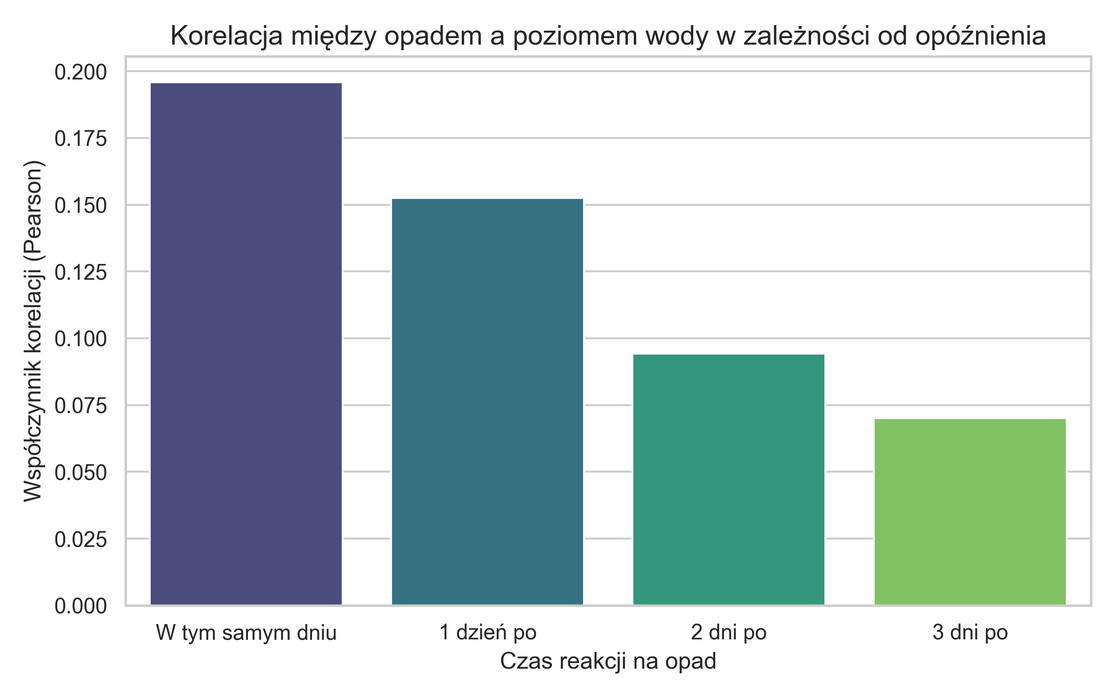
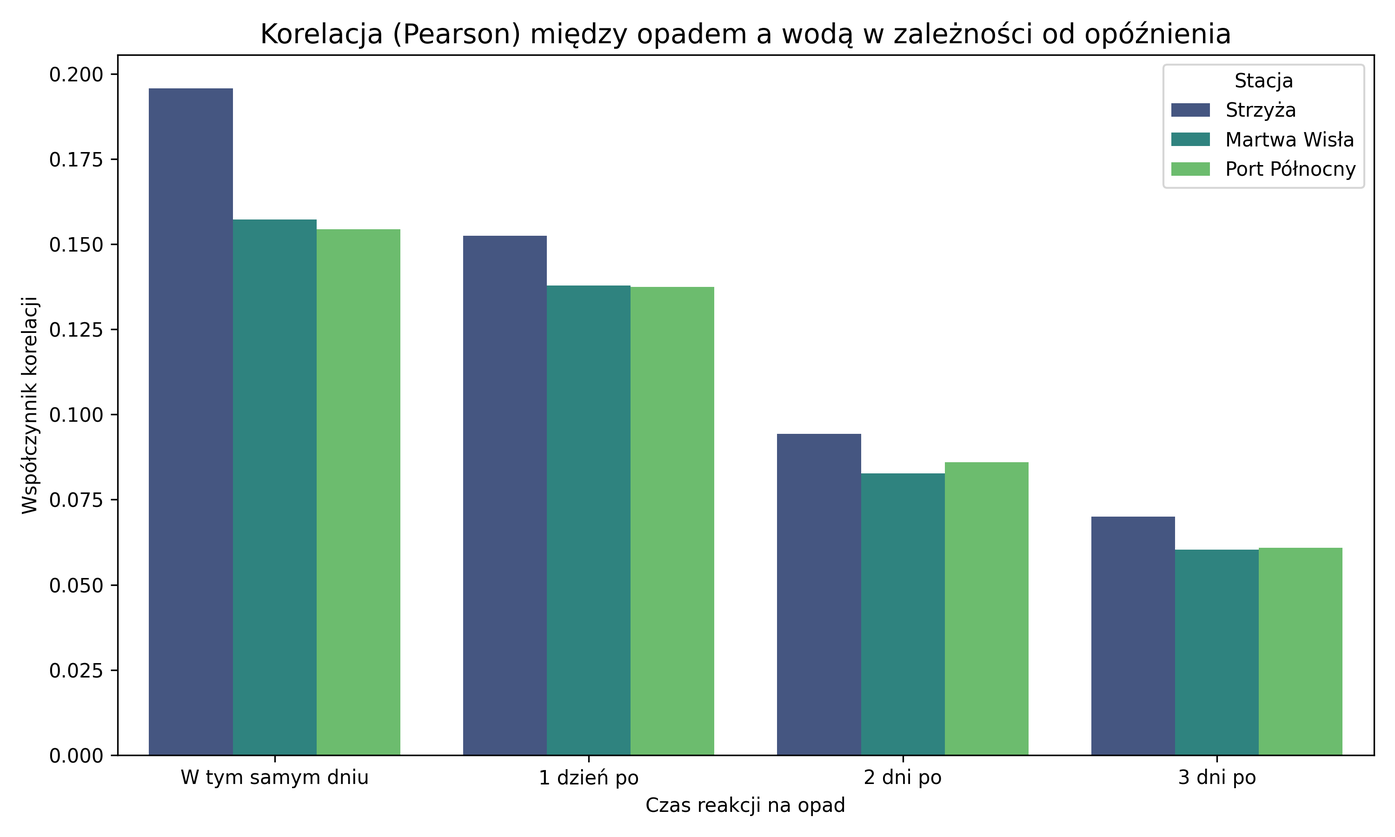
punkt 4 - zmiana analiza_ekspolaracyjnej na 3 stacje poziomu wody

diff --git a/brudnopis/analiza_ekspo.py b/brudnopis/analiza_ekspo.py
@@ -1,0 +1,236 @@
+import os
+import matplotlib.pyplot as plt
+import seaborn as sns
+import pandas as pd
+import numpy as np
+
+# Słowniki pomocnicze do mapowania stacji na ich kolumny w DataFrame
+STACJE_MAX = {
+    'Strzyża': 'Poziom_wody_max',
+    'Martwa Wisła': 'Martwa_Wisla_max',
+    'Port Północny': 'Port_Polnocny_max'
+}
+
+STACJE_SREDNIA = {
+    'Strzyża': 'Poziom_wody_średnia',
+    'Martwa Wisła': 'Martwa_Wisla_średnia',
+    'Port Północny': 'Port_Polnocny_średnia'
+}
+
+
+# ==========================================
+# 1. SEZONOWOŚĆ POZIOMU WODY
+# ==========================================
+
+def plot_przebieg_dobowy(df, base_dir='../reports/analiza_ekspolaracyjna/sezonowosc_poziomu_wody/plots'):
+    os.makedirs(base_dir, exist_ok=True)
+    fig, axes = plt.subplots(3, 1, figsize=(15, 12), sharex=True)
+
+    for ax, (nazwa, col_max) in zip(axes, STACJE_MAX.items()):
+        col_srednia = STACJE_SREDNIA[nazwa]
+        ax.plot(df.index, df[col_srednia], label='Średni dobowy', color='teal', alpha=0.7)
+        ax.plot(df.index, df[col_max], label='Maksymalny dobowy', color='red', alpha=0.5)
+        ax.set_title(f'Przebieg poziomu wody: {nazwa}', fontsize=12)
+        ax.set_ylabel('Poziom [m]')
+        ax.legend()
+
+    axes[-1].set_xlabel('Data')
+    plt.suptitle('Przebieg dobowy poziomu wody w latach 2021-2025', fontsize=16, y=1.02)
+    plt.tight_layout()
+    plt.savefig(os.path.join(base_dir, 'przebieg_poziomu_wody_dobowo.png'), dpi=300)
+    plt.close()
+
+
+def plot_sezonowosc_pory_roku(df, base_dir='../reports/analiza_ekspolaracyjna/sezonowosc_poziomu_wody/plots'):
+    os.makedirs(base_dir, exist_ok=True)
+    fig, axes = plt.subplots(1, 3, figsize=(18, 5))
+
+    for ax, (nazwa, col_srednia) in zip(axes, STACJE_SREDNIA.items()):
+        # Zmieniono 'Pora_roku' na 'sezon' aby pasowało do pliku CSV
+        sns.boxplot(ax=ax, data=df, x='sezon', y=col_srednia,
+                    hue='sezon', order=['wiosna', 'lato', 'jesien', 'zima'],
+                    palette='pastel', legend=False)
+        ax.set_title(f'{nazwa}', fontsize=12)
+        ax.set_ylabel('Średni poziom [m]')
+        ax.set_xlabel('Pora roku')
+
+    plt.suptitle('Rozkład średniego dobowego poziomu wody wg pór roku', fontsize=16, y=1.05)
+    plt.tight_layout()
+    plt.savefig(os.path.join(base_dir, 'sezonowosc_wg_por_roku.png'), dpi=300)
+    plt.close()
+
+
+def plot_sezonowosc_miesiace(df, base_dir='../reports/analiza_ekspolaracyjna/sezonowosc_poziomu_wody/plots'):
+    os.makedirs(base_dir, exist_ok=True)
+    fig, axes = plt.subplots(3, 1, figsize=(14, 15), sharex=True)
+
+    for ax, (nazwa, col_srednia) in zip(axes, STACJE_SREDNIA.items()):
+        # Zmieniono 'Miesiąc' na 'month' aby pasowało do pliku CSV
+        sns.boxplot(ax=ax, data=df, x='month', y=col_srednia,
+                    hue='month', palette='Set3', legend=False)
+        ax.set_title(f'{nazwa}', fontsize=12)
+        ax.set_ylabel('Średni poziom [m]')
+
+    axes[-1].set_xlabel('Miesiąc (1=Styczeń, 12=Grudzień)')
+    plt.suptitle('Rozkład średniego dobowego poziomu wody w poszczególnych miesiącach', fontsize=16, y=1.02)
+    plt.tight_layout()
+    plt.savefig(os.path.join(base_dir, 'sezonowosc_wg_miesiecy.png'), dpi=300)
+    plt.close()
+
+
+# ==========================================
+# 2. ZALEŻNOŚCI METEO
+# ==========================================
+
+def plot_zaleznosc_opad_woda(df, base_dir='../reports/analiza_ekspolaracyjna/zaleznosci_poziomu_wody/plots'):
+    os.makedirs(base_dir, exist_ok=True)
+    fig, axes = plt.subplots(1, 3, figsize=(18, 5))
+
+    for ax, (nazwa, col_max) in zip(axes, STACJE_MAX.items()):
+        sns.scatterplot(ax=ax, data=df, x='Opad_72h', y=col_max, alpha=0.5, color='royalblue')
+        ax.set_title(f'{nazwa}', fontsize=12)
+        ax.set_xlabel('Opad z 3 dni [mm]')
+        ax.set_ylabel('Max poziom wody [m]')
+
+    plt.suptitle('Zależność ogólna: Opad skumulowany (72h) a max poziom wody', fontsize=16, y=1.05)
+    plt.tight_layout()
+    plt.savefig(os.path.join(base_dir, 'zaleznosc_opad_woda_ogolnie.png'), dpi=300)
+    plt.close()
+
+
+def plot_zaleznosc_opad_woda_sezony(df, base_dir='../reports/analiza_ekspolaracyjna/zaleznosci_poziomu_wody/plots'):
+    os.makedirs(base_dir, exist_ok=True)
+    fig, axes = plt.subplots(1, 3, figsize=(18, 5))
+
+    for ax, (nazwa, col_max) in zip(axes, STACJE_MAX.items()):
+        sns.scatterplot(ax=ax, data=df, x='Opad_72h', y=col_max, hue='sezon',
+                        palette='bright', alpha=0.7, s=40)
+        ax.set_title(f'{nazwa}', fontsize=12)
+        ax.set_xlabel('Opad z 3 dni [mm]')
+        ax.set_ylabel('Max poziom wody [m]')
+        ax.legend()
+
+    plt.suptitle('Opad skumulowany a poziom wody w różnych porach roku', fontsize=16, y=1.05)
+    plt.tight_layout()
+    plt.savefig(os.path.join(base_dir, 'zaleznosc_opad_woda_sezony.png'), dpi=300)
+    plt.close()
+
+
+def plot_zaleznosc_cisnienie_woda(df, base_dir='../reports/analiza_ekspolaracyjna/zaleznosci_poziomu_wody/plots'):
+    os.makedirs(base_dir, exist_ok=True)
+    fig, axes = plt.subplots(1, 3, figsize=(18, 5))
+
+    for ax, (nazwa, col_max) in zip(axes, STACJE_MAX.items()):
+        sns.scatterplot(ax=ax, data=df, x='Ciśnienie_delta_1d', y=col_max, hue='sezon',
+                        palette='bright', alpha=0.7, s=40)
+        ax.axvline(0, color='grey', linestyle='--')
+        ax.set_title(f'{nazwa}', fontsize=12)
+        ax.set_xlabel('Zmiana ciśnienia (1d) [hPa]')
+        ax.set_ylabel('Max poziom wody [m]')
+        ax.legend()
+
+    plt.suptitle('Wpływ zmiany ciśnienia (proxy wiatru/sztormu) na max poziom wody', fontsize=16, y=1.05)
+    plt.tight_layout()
+    plt.savefig(os.path.join(base_dir, 'zaleznosc_cisnienie_woda_sezony.png'), dpi=300)
+    plt.close()
+
+
+# ==========================================
+# 3. ANALIZA OPÓŹNIEŃ (LAGS)
+# ==========================================
+
+def plot_korelacja_opoznien(df, base_dir='../reports/analiza_ekspolaracyjna/analiza_opoznien/plots'):
+    os.makedirs(base_dir, exist_ok=True)
+    lagi_opadu = ['Opad_suma', 'Opad_lag_1d', 'Opad_lag_2d', 'Opad_lag_3d']
+    nazwy_lagow = ['W tym samym dniu', '1 dzień po', '2 dni po', '3 dni po']
+
+    dane_plot = []
+    for lag_col, lag_nazwa in zip(lagi_opadu, nazwy_lagow):
+        for stacja_nazwa, stacja_col in STACJE_MAX.items():
+            korelacja = df[lag_col].corr(df[stacja_col])
+            dane_plot.append({'Lag': lag_nazwa, 'Stacja': stacja_nazwa, 'Korelacja': korelacja})
+
+    df_corr = pd.DataFrame(dane_plot)
+
+    plt.figure(figsize=(10, 6))
+    sns.barplot(data=df_corr, x='Lag', y='Korelacja', hue='Stacja', palette='viridis')
+    plt.title('Korelacja (Pearson) między opadem a wodą w zależności od opóźnienia', fontsize=14)
+    plt.ylabel('Współczynnik korelacji')
+    plt.xlabel('Czas reakcji na opad')
+    plt.tight_layout()
+    plt.savefig(os.path.join(base_dir, 'korelacja_opoznien_slupki.png'), dpi=300)
+    plt.close()
+
+
+def plot_scatter_opoznienia(df, base_dir='../reports/analiza_ekspolaracyjna/analiza_opoznien/plots'):
+    os.makedirs(base_dir, exist_ok=True)
+    fig, axes = plt.subplots(3, 3, figsize=(16, 12), sharex=True, sharey='row')
+
+    lagi = [
+        ('Opad_suma', 'W tym samym dniu', 'blue'),
+        ('Opad_lag_1d', '1 dzień po opadzie', 'orange'),
+        ('Opad_lag_2d', '2 dni po opadzie', 'green')
+    ]
+
+    for wiersz, (nazwa_stacji, col_max) in enumerate(STACJE_MAX.items()):
+        for kolumna, (kolumna_lag, tytul_lag, kolor) in enumerate(lagi):
+            ax = axes[wiersz, kolumna]
+            sns.scatterplot(ax=ax, data=df, x=kolumna_lag, y=col_max, alpha=0.5, color=kolor)
+
+            if wiersz == 0:
+                ax.set_title(tytul_lag)
+
+            if kolumna == 0:
+                ax.set_ylabel(f'{nazwa_stacji}\nMax poziom [m]')
+            else:
+                ax.set_ylabel('')
+
+            if wiersz == 2:
+                ax.set_xlabel('Suma opadu [mm]')
+            else:
+                ax.set_xlabel('')
+
+    plt.suptitle('Reakcja 3 punktów pomiarowych na opad z opóźnieniem', fontsize=16, y=1.02)
+    plt.tight_layout()
+    plt.savefig(os.path.join(base_dir, 'scatter_opoznienia_panel.png'), dpi=300)
+    plt.close()
+
+
+# ==========================================
+# WYWOŁANIE FUNKCJI
+# ==========================================
+if __name__ == "__main__":
+    sciezka_do_pliku = '../data/processed/final.csv'
+
+    if os.path.exists(sciezka_do_pliku):
+        print("Wczytywanie danych...")
+        final = pd.read_csv(
+            sciezka_do_pliku,
+            parse_dates=['Data'],
+            index_col='Data'
+        )
+
+        # USUWANIE ANOMALII Z PORTU PÓŁNOCNEGO
+        print("Filtrowanie błędów aparatury...")
+        final.loc[final['Port_Polnocny_max'] < 4.0, 'Port_Polnocny_max'] = np.nan
+        final.loc[final['Port_Polnocny_średnia'] < 4.0, 'Port_Polnocny_średnia'] = np.nan
+
+        print("Generowanie i zapisywanie plików do folderów...")
+
+        # 1. Sezonowość
+        plot_przebieg_dobowy(final)
+        plot_sezonowosc_pory_roku(final)
+        plot_sezonowosc_miesiace(final)
+
+        # 2. Zależności meteo
+        plot_zaleznosc_opad_woda(final)
+        plot_zaleznosc_opad_woda_sezony(final)
+        plot_zaleznosc_cisnienie_woda(final)
+
+        # 3. Analiza opóźnień
+        plot_korelacja_opoznien(final)
+        plot_scatter_opoznienia(final)
+
+        print("Gotowe! Wszystkie wykresy zapisane w folderze ../reports/analiza_ekspolaracyjna/")
+    else:
+        print(f"Błąd: Nie znaleziono pliku {sciezka_do_pliku}.")

diff --git a/src/data/preprocessing.py b/src/data/preprocessing.py
@@ -196,7 +196,7 @@ def clean_port_polnocny_and_day_step(df):
     df['Poziom wody [m]'] = df['Poziom wody [m]'].astype(str).str.replace(',', '.')
     df['Poziom wody [m]'] = pd.to_numeric(df['Poziom wody [m]'], errors='coerce')
 
-    df.loc[(df['Poziom wody [m]'] < 0) | (df['Poziom wody [m]'] > 10), 'Poziom wody [m]'] = np.nan
+    df.loc[(df['Poziom wody [m]'] < 4.5) | (df['Poziom wody [m]'] > 7), 'Poziom wody [m]'] = np.nan
 
     df = df.dropna(subset=['Poziom wody [m]'])
 

diff --git a/reports/analiza_ekspolaracyjna/analiza_ekspolaracyjna.md b/reports/analiza_ekspolaracyjna/analiza_ekspolaracyjna.md
@@ -1,0 +1,71 @@
+## Rozdział: Wyniki analizy eksploracyjnej
+
+### 4.1. Sezonowość poziomu wody w układzie Zatoka-Rzeka (2021-2025)
+
+**Przebieg długoterminowy i synchronizacja zjawisk**
+
+Analiza szeregów czasowych z lat 2021–2025 dla trzech punktów pomiarowych (Strzyża, Martwa Wisła, Port Północny) ujawnia niemal perfekcyjną synchronizację wahań poziomu wody. Wykresy przebiegu dobowego pokazują, że najwyższe piki wezbraniowe (np. początek 2022 i koniec 2025 roku) oraz najgłębsze spadki występują na wszystkich trzech stacjach dokładnie w tym samym czasie. 
+
+![Przebieg dobowy poziomu wody](sezonowosc_poziomu_wody/plots/przebieg_poziomu_wody_dobowo.png)
+
+Taka charakterystyka dowodzi, że cały badany węzeł wodny funkcjonuje jak system naczyń połączonych, w którym głównym dyktatorem warunków hydrologicznych jest Zatoka Gdańska (reprezentowana przez Port Północny), a wpływ lokalnych zjawisk wewnątrz zlewni (własny nurt Strzyży) schodzi na dalszy plan w obliczu dominujących wezbrań morskich.
+
+**Zmienność miesięczna i sezonowa**
+
+Analiza rozkładów wartości (wykresy pudełkowe) wskazuje na spójną sezonowość dla całego układu, niezależnie od odległości od otwartego morza:
+
+* **Miesiące niżówkowe (Wiosna):** Zdecydowanie najniższe stany wód notowane są w sezonie wiosennym, z wyraźnym minimum przypadającym na **maj**. Mediany dla tego miesiąca są najniższe na wszystkich trzech stacjach. Wynika to z uspokojenia cyrkulacji atmosferycznej nad Bałtykiem po okresie zimowym oraz braku głębokich niżów pompujących wodę do zatoki.
+* **Miesiące o najwyższym stanie i największej dynamice (Zima):** Najwyższe średnie poziomy wody charakteryzują porę zimową (**styczeń i luty**). Zima jest również okresem o największej wariancji (najdłuższe wąsy na wykresach pudełkowych) oraz największej liczbie wartości odstających "w górę" na każdej ze stacji. Potwierdza to ścisły związek ekstremalnych wezbrań z zimowym sezonem sztormowym na Bałtyku i zjawiskiem cofki wiatrowej.
+* **Letnie i jesienne odpływy wiatrowe:** Bardzo ciekawym zjawiskiem, widocznym szczególnie wyraźnie na stacji Port Północny w lipcu, jest obecność skrajnych wartości odstających "w dół" (spadki poziomu wody poniżej 4,7 m). Są to klasyczne zjawiska odpływów wiatrowych, występujące, gdy silne i długotrwałe wiatry z południa i wschodu odpychają masy wody z Zatoki Gdańskiej na otwarte morze, co błyskawicznie "odsysa" wodę również z Martwej Wisły i koryta Strzyży.
+
+![Sezonowość według miesięcy](sezonowosc_poziomu_wody/plots/sezonowosc_wg_miesiecy.png)
+
+![Sezonowość według pór roku](sezonowosc_poziomu_wody/plots/sezonowosc_wg_por_roku.png)
+
+---
+
+### 4.2. Zależności poziom wody – warunki meteorologiczne
+
+**Wpływ opadów skumulowanych (72h)**
+
+Analiza wykresów rozrzutu (zależność maksymalnego poziomu wody od sumy opadów z 3 poprzedzających dni) dla wszystkich trzech stacji pomiarowych dostarcza jednoznacznych wniosków na temat roli opadów w badanym węźle wodnym:
+
+* **Brak korelacji dla ekstremów:** We wszystkich trzech punktach układu (Strzyża, Martwa Wisła, Port Północny) absolutnie najwyższe stany wód występują niemal wyłącznie w dniach o znikomym lub zerowym opadzie skumulowanym (głównie w porze zimowej – punkty niebieskie). Oznacza to, że opad atmosferyczny nie jest bezpośrednim czynnikiem wyzwalającym stany alarmowe w tym regionie.
+* **Marginalny wpływ letnich ulew:** Bardzo wysokie sumy opadów (przekraczające 60–80 mm w ciągu 72 godzin) notowane są wyłącznie latem (zielone punkty). Choć wywołują one zauważalne, krótkotrwałe wezbrania na rzece Strzyża, ich wpływ na Martwą Wisłę i Port Północny jest praktycznie niezauważalny. Zdolność retencyjna i objętość akwenów morskich całkowicie buforują te opady, co potwierdza, że zagrożenie powodziowe latem ma tu charakter wyłącznie lokalny (tzw. powodzie błyskawiczne w uszczelnionej zlewni Strzyży), a nie systemowy.
+
+![Zależność opad a woda ogólnie](zaleznosci_poziomu_wody/plots/zaleznosc_opad_woda_ogolnie.png)
+
+![Zależność opad a woda z podziałem na sezony](zaleznosci_poziomu_wody/plots/zaleznosc_opad_woda_sezony.png)
+
+**Wpływ dynamiki ciśnienia atmosferycznego (proxy wiatru i sztormów)**
+
+Wykresy zależności poziomu wody od dobowej zmiany ciśnienia atmosferycznego (wskaźnik `Ciśnienie_delta_1d` użyty jako proxy dla przechodzących frontów i siły wiatru) bezsprzecznie tłumaczą genezę ekstremów hydrologicznych w całym systemie:
+
+* **"Lejek" zmienności układu:** Wszystkie trzy stacje wykazują identyczny, charakterystyczny kształt lejka. W dniach o stabilnej sytuacji barycznej (zmiana ciśnienia bliska 0 hPa) poziom wody jest przewidywalny i skupiony w wąskim przedziale bliskim średniej. Jednak wraz ze wzrostem dynamiki ciśnienia – co oznacza nadciągające głębokie niże lub silne wyże – rozrzut i wariancja poziomu wody drastycznie rosną na każdej ze stacji.
+* **Dominacja zjawisk morskich (cofki i odpływy):** Historyczne maksima (sztormowe wezbrania zimowe) oraz skrajne minima (odpływy wiatrowe) występują przy wahaniach ciśnienia przekraczających 10–20 hPa/dobę. Fakt, że zależność ta jest tak samo silna dla otwartego Portu Północnego, jak i ujściowego odcinka rzeki Strzyży, stanowi twardy dowód na to, że ekstremalne zjawiska hydrologiczne w Gdańsku są napędzane mechanicznie od strony morza. To silne wiatry i zmiana ciśnienia na Bałtyku "wtłaczają" lub "wypychają" wodę z systemu, czyniąc parametry cyrkulacyjne kluczowymi predyktorami dla przyszłych modeli predykcyjnych.
+
+![Zależność ciśnienia i poziomu wody](zaleznosci_poziomu_wody/plots/zaleznosc_cisnienie_woda_sezony.png)
+
+---
+
+### 4.3. Analiza czasowa reakcji na opad (opóźnienia / lags)
+
+**Dynamika spływu i czas reakcji w układzie rzeka-morze**
+
+Analiza współczynników korelacji Pearsona pomiędzy sumą opadów a maksymalnym dobowym poziomem wody dla różnych opóźnień czasowych ujawnia spójną dynamikę dla całego badanego układu hydrologicznego:
+
+* **Natychmiastowa reakcja systemu:** Dla wszystkich trzech stacji pomiarowych najwyższą wartość korelacji zaobserwowano dla opadu występującego **w tym samym dniu** (brak opóźnienia). Z każdym kolejnym dniem siła związku maleje. Dowodzi to bardzo krótkiego czasu koncentracji odpływu. W przypadku Strzyży wynika to z silnego zurbanizowania i uszczelnienia zlewni (woda z ulic błyskawicznie trafia do koryta). Z kolei jednodniowa reakcja w Porcie Północnym i na Martwej Wiśle sugeruje, że opad jest tam jedynie zjawiskiem współwystępującym z przechodzącymi, szybkimi frontami atmosferycznymi.
+* **Gradient wpływu opadów:** Wykres słupkowy wyraźnie uwidacznia przestrzenny spadek znaczenia opadów. Najwyższą korelację z deszczem wykazuje rzeka Strzyża (ok. 0.19), nieco niższą Martwa Wisła (ok. 0.16), a najniższą Port Północny (ok. 0.15). Jest to logiczne z punktu widzenia fizjografii terenu – im bliżej otwartego morza, tym wpływ lokalnych ulew na poziom lustra wody jest mocniej "rozmywany" przez ogromną objętość akwenu.
+
+![Korelacja opóźnień (słupki)](analiza_opoznien/plots/korelacja_opoznien_slupki.png)
+
+**Ostateczna weryfikacja dominującego czynnika wezbrań**
+
+Panel wykresów punktowych (scatter plots) zestawiający sumę opadów z poziomem wody w poszczególnych dniach opóźnienia stanowi ostateczne potwierdzenie unikalnego charakteru gdańskiego węzła wodnego:
+
+* Niezależnie od analizowanej stacji (Strzyża, Martwa Wisła, Port Północny) oraz badanego opóźnienia, absolutnie najwyższe stany wód (górne partie osi Y) konsekwentnie grupują się po lewej stronie wykresów – przy wartościach opadu bliskich zera (0-10 mm).
+* Duże sumy opadów (powyżej 30-40 mm) generują jedynie umiarkowane wzrosty poziomu wody, bezpiecznie mieszczące się w korytach i basenach portowych.
+
+![Analiza opóźnień (scatter panel)](analiza_opoznien/plots/scatter_opoznienia_panel.png)
+
+Powyższe obserwacje bezsprzecznie dowodzą, że opady atmosferyczne nie stanowią w tym rejonie głównego zagrożenia powodziowego. Cały badany system – od otwartego Portu Północnego, przez Martwą Wisłę, aż po ujściowy odcinek Strzyży – jest w pełni zdominowany przez reżim morski. Ekstremalne wezbrania są tu wywoływane mechanicznie przez zjawisko tzw. "cofki" wiatrowej z Zatoki Gdańskiej, co czyni czynniki cyrkulacyjne (wiatr, ciśnienie) najważniejszymi predyktorami w docelowym modelu uczenia maszynowego.

diff --git a/reports/analiza_ekspolaracyjna/sezonowosc_poziomu_wody/raport_sezonowosc.md b/reports/analiza_ekspolaracyjna/sezonowosc_poziomu_wody/raport_sezonowosc.md
@@ -1,15 +1,16 @@
 ## Rozdział: Wyniki analizy eksploracyjnej
 
-### 4.1. Sezonowość poziomu wody (Rzeka Strzyża, 2021-2025)
+### 4.1. Sezonowość poziomu wody w układzie Zatoka-Rzeka (2021-2025)
 
-**Przebieg długoterminowy i ekstrema**
+**Przebieg długoterminowy i synchronizacja zjawisk**
 
-Analiza szeregu czasowego z lat 2021–2025 wskazuje, że średni dobowy poziom wody na rzece Strzyża wykazuje zauważalne wahania sezonowe, przerywane krótkotrwałymi wezbraniami. Po odfiltrowaniu błędów aparatury pomiarowej, wykres przebiegu dobowego uwidacznia, że najwyższe udokumentowane szczyty maksymalnego poziomu wody sięgają pułapu około 1,3 metra (wystąpiły m.in. na początku 2022 roku oraz pod koniec roku 2025). Najbardziej znaczące piki koncentrują się w chłodniejszej połowie roku.
+Analiza szeregów czasowych z lat 2021–2025 dla trzech punktów pomiarowych (Strzyża, Martwa Wisła, Port Północny) ujawnia niemal perfekcyjną synchronizację wahań poziomu wody. Wykresy przebiegu dobowego pokazują, że najwyższe piki wezbraniowe (np. początek 2022 i koniec 2025 roku) oraz najgłębsze spadki występują na wszystkich trzech stacjach dokładnie w tym samym czasie. 
+Taka charakterystyka dowodzi, że cały badany węzeł wodny funkcjonuje jak system naczyń połączonych, w którym głównym dyktatorem warunków hydrologicznych jest Zatoka Gdańska (reprezentowana przez Port Północny), a wpływ lokalnych zjawisk wewnątrz zlewni (własny nurt Strzyży) schodzi na dalszy plan w obliczu dominujących wezbrań morskich.
 
-**Zmienność miesięczna i pory roku**
+**Zmienność miesięczna i sezonowa**
 
-Na podstawie analizy rozkładów wartości (wykresy pudełkowe) zaobserwowano wyraźną sezonowość w zachowaniu rzeki:
+Analiza rozkładów wartości (wykresy pudełkowe) wskazuje na spójną sezonowość dla całego układu, niezależnie od odległości od otwartego morza:
 
-* **Miesiące o najwyższym stanie wód:** Najwyższe mediany poziomu wody notowane są w sezonie **zimowym**, ze szczególnym uwzględnieniem **stycznia i lutego**. W warunkach gdańskich (ujście rzeki) może to być bezpośrednio związane z zimowymi układami niżowymi, sztormami i zjawiskiem tzw. "cofki" wiatrowej od strony morza, a także z opadami i ewentualnymi roztopami.
-* **Miesiące niżówkowe:** Wbrew intuicji, najniższe stany wód (zarówno pod kątem średnich, jak i wartości minimalnych) charakteryzują na tej rzece **wiosnę**, osiągając absolutne minimum w **maju** (miesiąc 5). Prawdopodobnie wynika to z mniejszej sumy opadów połączonej z intensywnym poborem wody przez budzącą się do życia roślinność w zlewni.
-* **Występowanie anomalii (ekstremów):** Analiza wartości odstających (punktów powyżej tzw. wąsów na wykresach pudełkowych) wskazuje, że najbardziej skrajne odchylenia od normy dla średniego poziomu dobowego występują w **styczniu** (wartości rzędu 0,8–0,9 m). Zima jest zatem okresem najbardziej dynamicznym hydrologicznie. Warto również zauważyć, że choć lato ma wyższą medianę niż wiosna czy jesień, to po usunięciu szumu pomiarowego nie wykazuje już tak drastycznych anomalii uśrednionego poziomu dobowego, co sugeruje, że letnie opady burzowe mają charakter bardzo krótkotrwały i nie podnoszą średniej dobowej tak mocno, jak długotrwałe niże zimowe.
+* **Miesiące niżówkowe (Wiosna):** Zdecydowanie najniższe stany wód notowane są w sezonie wiosennym, z wyraźnym minimum przypadającym na **maj**. Mediany dla tego miesiąca są najniższe na wszystkich trzech stacjach. Wynika to z uspokojenia cyrkulacji atmosferycznej nad Bałtykiem po okresie zimowym oraz braku głębokich niżów pompujących wodę do zatoki.
+* **Miesiące o najwyższym stanie i największej dynamice (Zima):** Najwyższe średnie poziomy wody charakteryzują porę zimową (**styczeń i luty**). Zima jest również okresem o największej wariancji (najdłuższe wąsy na wykresach pudełkowych) oraz największej liczbie wartości odstających "w górę" na każdej ze stacji. Potwierdza to ścisły związek ekstremalnych wezbrań z zimowym sezonem sztormowym na Bałtyku i zjawiskiem cofki wiatrowej.
+* **Letnie i jesienne odpływy wiatrowe:** Bardzo ciekawym zjawiskiem, widocznym szczególnie wyraźnie na stacji Port Północny w lipcu, jest obecność skrajnych wartości odstających "w dół" (spadki poziomu wody poniżej 4,7 m). Są to klasyczne zjawiska odpływów wiatrowych, występujące, gdy silne i długotrwałe wiatry z południa i wschodu odpychają masy wody z Zatoki Gdańskiej na otwarte morze, co błyskawicznie "odsysa" wodę również z Martwej Wisły i koryta Strzyży.

diff --git a/reports/analiza_ekspolaracyjna/analiza_opoznien/raport_analiza.md b/reports/analiza_ekspolaracyjna/analiza_opoznien/raport_analiza.md
@@ -1,13 +1,15 @@
 ### 4.3. Analiza czasowa reakcji na opad (opóźnienia / lags)
 
-**Dynamika spływu i czas reakcji zlewni**
+**Dynamika spływu i czas reakcji w układzie rzeka-morze**
 
-Analiza współczynników korelacji Pearsona pomiędzy sumą opadów a maksymalnym dobowym poziomem wody (dla różnych opóźnień czasowych) rzuca światło na dynamikę spływu w zlewni Strzyży:
-* **Błyskawiczna reakcja:** Najwyższą wartość korelacji zaobserwowano dla opadu występującego **w tym samym dniu** (brak opóźnienia). Z każdym kolejnym dniem ("1 dzień po", "2 dni po") siła związku wyraźnie i kaskadowo maleje. Oznacza to, że rzeka reaguje na deszcz w ciągu zaledwie kilku do kilkunastu godzin.
-* **Charakterystyka zurbanizowana:** Tak krótki czas koncentracji odpływu (rzeka wzbiera w dniu opadu i szybko opada) jest sztandarową cechą zlewni silnie zurbanizowanych. Ze względu na duży stopień uszczelnienia terenu (asfalt, beton, dachy) w gdańskich dzielnicach oplatanych przez rzekę, woda deszczowa nie wsiąka w grunt, lecz siecią kanalizacji burzowej błyskawicznie trafia do koryta.
+Analiza współczynników korelacji Pearsona pomiędzy sumą opadów a maksymalnym dobowym poziomem wody dla różnych opóźnień czasowych ujawnia spójną dynamikę dla całego badanego układu hydrologicznego:
+* **Natychmiastowa reakcja systemu:** Dla wszystkich trzech stacji pomiarowych najwyższą wartość korelacji zaobserwowano dla opadu występującego **w tym samym dniu** (brak opóźnienia). Z każdym kolejnym dniem siła związku maleje. Dowodzi to bardzo krótkiego czasu koncentracji odpływu. W przypadku Strzyży wynika to z silnego zurbanizowania i uszczelnienia zlewni (woda z ulic błyskawicznie trafia do koryta). Z kolei jednodniowa reakcja w Porcie Północnym i na Martwej Wiśle sugeruje, że opad jest tam jedynie zjawiskiem współwystępującym z przechodzącymi, szybkimi frontami atmosferycznymi.
+* **Gradient wpływu opadów:** Wykres słupkowy wyraźnie uwidacznia przestrzenny spadek znaczenia opadów. Najwyższą korelację z deszczem wykazuje rzeka Strzyża (ok. 0.19), nieco niższą Martwa Wisła (ok. 0.16), a najniższą Port Północny (ok. 0.15). Jest to logiczne z punktu widzenia fizjografii terenu – im bliżej otwartego morza, tym wpływ lokalnych ulew na poziom lustra wody jest mocniej "rozmywany" przez ogromną objętość akwenu.
 
-**Siła korelacji a dominujący czynnik wezbrań**
+**Ostateczna weryfikacja dominującego czynnika wezbrań**
 
-Warto również zauważyć, że choć korelacja dla opadu "w tym samym dniu" jest najwyższa ze wszystkich badanych opóźnień, jej bezwzględna wartość pozostaje na stosunkowo niskim poziomie (około 0,19). Panel wykresów punktowych z opóźnieniami dodatkowo potwierdza, że najwyższe stany wód na osi Y konsekwentnie grupują się przy wartościach bliskich zera na osi opadów (oś X). 
+Panel wykresów punktowych (scatter plots) zestawiający sumę opadów z poziomem wody w poszczególnych dniach opóźnienia stanowi ostateczne potwierdzenie unikalnego charakteru gdańskiego węzła wodnego:
+* Niezależnie od analizowanej stacji (Strzyża, Martwa Wisła, Port Północny) oraz badanego opóźnienia, absolutnie najwyższe stany wód (górne partie osi Y) konsekwentnie grupują się po lewej stronie wykresów – przy wartościach opadu bliskich zera (0-10 mm).
+* Duże sumy opadów (powyżej 30-40 mm) generują jedynie umiarkowane wzrosty poziomu wody, bezpiecznie mieszczące się w korytach i basenach portowych.
 
-Stanowi to ostateczne potwierdzenie wniosków z poprzedniego podrozdziału: opady atmosferyczne powodują natychmiastowe, ale najczęściej umiarkowane wzrosty poziomu rzeki Strzyża. Prawdziwe, ekstremalne zagrożenia powodziowe generowane są nie z głębi lądu przez deszcz, lecz od strony ujścia – przez cofkę wiatrową wpychającą wodę z Zatoki Gdańskiej.
+Powyższe obserwacje bezsprzecznie dowodzą, że opady atmosferyczne nie stanowią w tym rejonie głównego zagrożenia powodziowego. Cały badany system – od otwartego Portu Północnego, przez Martwą Wisłę, aż po ujściowy odcinek Strzyży – jest w pełni zdominowany przez reżim morski. Ekstremalne wezbrania są tu wywoływane mechanicznie przez zjawisko tzw. "cofki" wiatrowej z Zatoki Gdańskiej, co czyni czynniki cyrkulacyjne (wiatr, ciśnienie) najważniejszymi predyktorami w docelowym modelu uczenia maszynowego.

diff --git a/reports/analiza_ekspolaracyjna/zaleznosci_poziomu_wody/raport_zaleznosci.md b/reports/analiza_ekspolaracyjna/zaleznosci_poziomu_wody/raport_zaleznosci.md
@@ -1,0 +1,13 @@
+### 4.2. Zależności poziom wody – warunki meteorologiczne
+
+**Wpływ opadów skumulowanych (72h)**
+
+Analiza wykresów rozrzutu (zależność maksymalnego poziomu wody od sumy opadów z 3 poprzedzających dni) dla wszystkich trzech stacji pomiarowych dostarcza jednoznacznych wniosków na temat roli opadów w badanym węźle wodnym:
+* **Brak korelacji dla ekstremów:** We wszystkich trzech punktach układu (Strzyża, Martwa Wisła, Port Północny) absolutnie najwyższe stany wód występują niemal wyłącznie w dniach o znikomym lub zerowym opadzie skumulowanym (głównie w porze zimowej – punkty niebieskie). Oznacza to, że opad atmosferyczny nie jest bezpośrednim czynnikiem wyzwalającym stany alarmowe w tym regionie.
+* **Marginalny wpływ letnich ulew:** Bardzo wysokie sumy opadów (przekraczające 60–80 mm w ciągu 72 godzin) notowane są wyłącznie latem (zielone punkty). Choć wywołują one zauważalne, krótkotrwałe wezbrania na rzece Strzyża, ich wpływ na Martwą Wisłę i Port Północny jest praktycznie niezauważalny. Zdolność retencyjna i objętość akwenów morskich całkowicie buforują te opady, co potwierdza, że zagrożenie powodziowe latem ma tu charakter wyłącznie lokalny (tzw. powodzie błyskawiczne w uszczelnionej zlewni Strzyży), a nie systemowy.
+
+**Wpływ dynamiki ciśnienia atmosferycznego (proxy wiatru i sztormów)**
+
+Wykresy zależności poziomu wody od dobowej zmiany ciśnienia atmosferycznego (wskaźnik `Ciśnienie_delta_1d` użyty jako proxy dla przechodzących frontów i siły wiatru) bezsprzecznie tłumaczą genezę ekstremów hydrologicznych w całym systemie:
+* **"Lejek" zmienności układu:** Wszystkie trzy stacje wykazują identyczny, charakterystyczny kształt lejka. W dniach o stabilnej sytuacji barycznej (zmiana ciśnienia bliska 0 hPa) poziom wody jest przewidywalny i skupiony w wąskim przedziale bliskim średniej. Jednak wraz ze wzrostem dynamiki ciśnienia – co oznacza nadciągające głębokie niże lub silne wyże – rozrzut i wariancja poziomu wody drastycznie rosną na każdej ze stacji.
+* **Dominacja zjawisk morskich (cofki i odpływy):** Historyczne maksima (sztormowe wezbrania zimowe) oraz skrajne minima (odpływy wiatrowe) występują przy wahaniach ciśnienia przekraczających 10–20 hPa/dobę. Fakt, że zależność ta jest tak samo silna dla otwartego Portu Północnego, jak i ujściowego odcinka rzeki Strzyży, stanowi twardy dowód na to, że ekstremalne zjawiska hydrologiczne w Gdańsku są napędzane mechanicznie od strony morza. To silne wiatry i zmiana ciśnienia na Bałtyku "wtłaczają" lub "wypychają" wodę z systemu, czyniąc parametry cyrkulacyjne kluczowymi predyktorami dla przyszłych modeli predykcyjnych.
